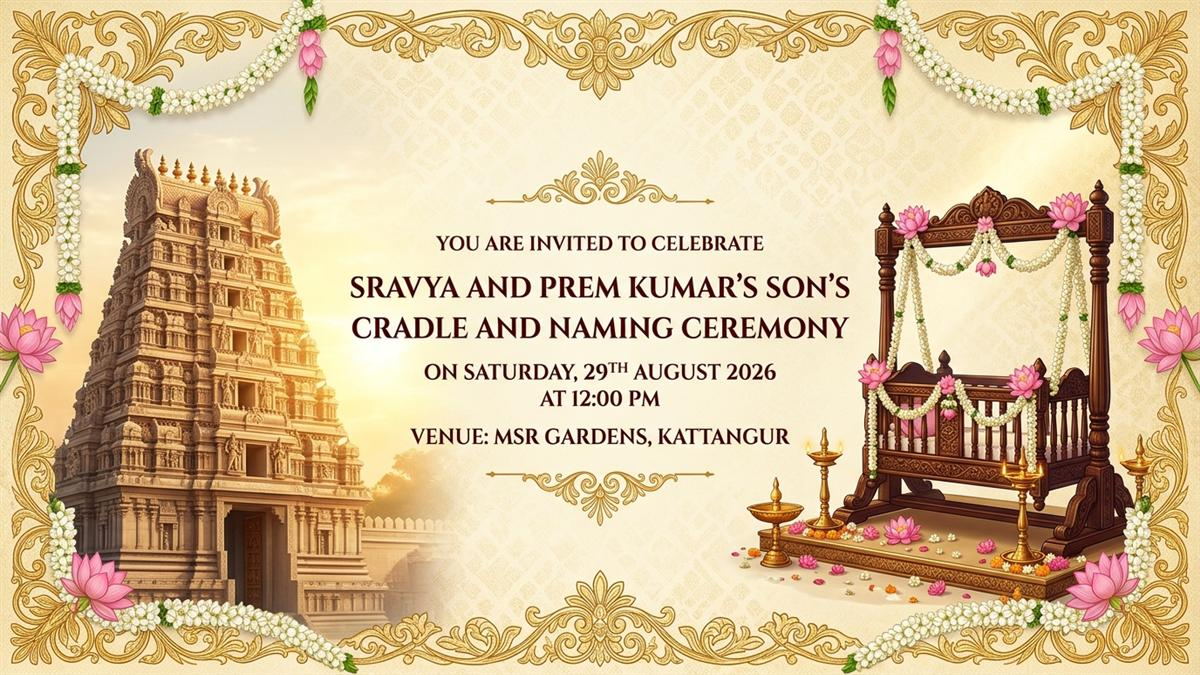
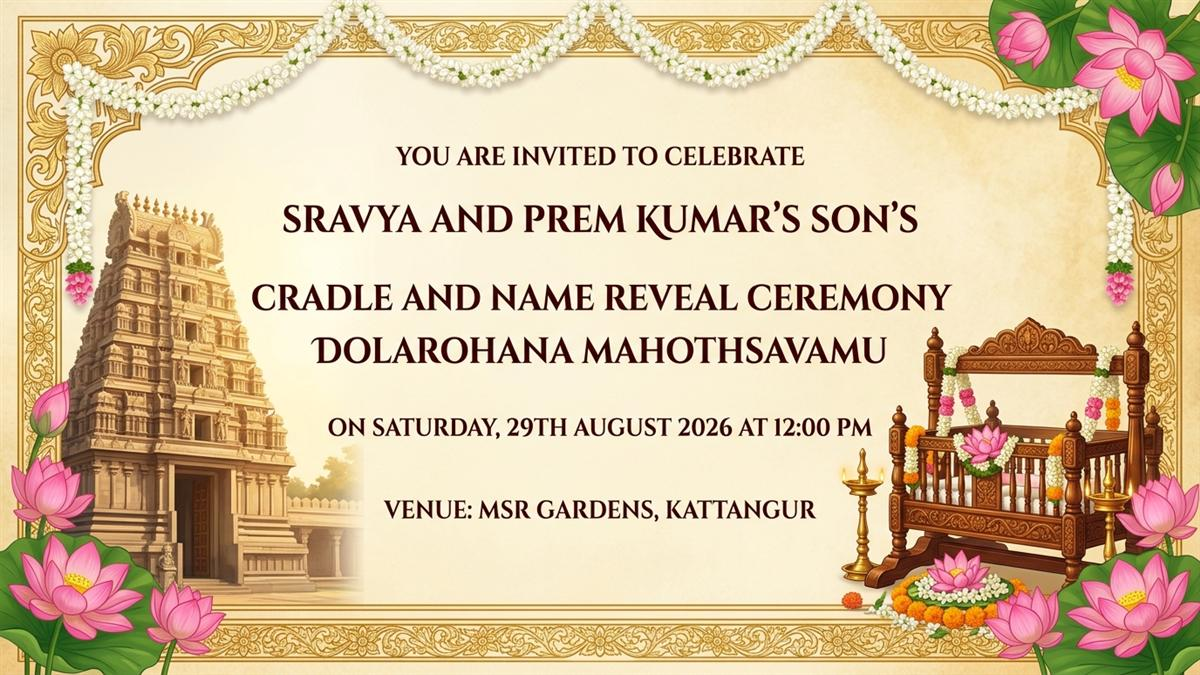
feat: Update event titles and descriptions to reflect 'Name Reveal Ceremony' and enhance MusicToggle with auto-stop functionality

diff --git a/src/app/layout.tsx b/src/app/layout.tsx
@@ -31,16 +31,16 @@ const notoTelugu = Noto_Serif_Telugu({
 });
 
 export const metadata: Metadata = {
-  title: "Sravya & Prem Kumar's Son's Cradle & Naming Ceremony | 29 August 2026",
+  title: "Sravya & Prem Kumar's Son's Cradle & Name Reveal Ceremony | 29 August 2026",
   description:
-    "With joy and blessings, we invite you to celebrate Sravya & Prem Kumar's son's Cradle & Naming Ceremony on Saturday, 29 August 2026 at MSR Gardens, Kattangur.",
+    "With joy and blessings, we invite you to celebrate Sravya & Prem Kumar's son's Cradle & Name Reveal Ceremony (డోలారోహణ మహోత్సవం) on Saturday, 29 August 2026 at MSR Gardens, Kattangur.",
   metadataBase: new URL("https://cradle-and-naming-ceremony.vercel.app"),
   openGraph: {
-    title: "Sravya & Prem Kumar's Son's Cradle & Naming Ceremony | 29 August 2026",
+    title: "Sravya & Prem Kumar's Son's Cradle & Name Reveal Ceremony | 29 August 2026",
     description:
-      "With joy and blessings, we invite you to celebrate Sravya & Prem Kumar's son's Cradle & Naming Ceremony on Saturday, 29 August 2026 at MSR Gardens, Kattangur.",
+      "With joy and blessings, we invite you to celebrate Sravya & Prem Kumar's son's Cradle & Name Reveal Ceremony (డోలారోహణ మహోత్సవం) on Saturday, 29 August 2026 at MSR Gardens, Kattangur.",
     url: "https://cradle-and-naming-ceremony.vercel.app",
-    siteName: "Cradle & Naming Ceremony Invitation",
+    siteName: "Cradle & Name Reveal Ceremony Invitation",
     images: [
       {
         url: "https://cradle-and-naming-ceremony.vercel.app/images/og_image.jpg",
@@ -48,7 +48,7 @@ export const metadata: Metadata = {
         width: 1200,
         height: 675,
         type: "image/jpeg",
-        alt: "Sravya & Prem Kumar's Son's Cradle & Naming Ceremony Invitation - Saturday, 29 August 2026",
+        alt: "Sravya & Prem Kumar's Son's Cradle & Name Reveal Ceremony Invitation - Saturday, 29 August 2026",
       },
     ],
     locale: "en_IN",
@@ -56,18 +56,18 @@ export const metadata: Metadata = {
   },
   twitter: {
     card: "summary_large_image",
-    title: "Sravya & Prem Kumar's Son's Cradle & Naming Ceremony | 29 August 2026",
+    title: "Sravya & Prem Kumar's Son's Cradle & Name Reveal Ceremony | 29 August 2026",
     description:
-      "With joy and blessings, we invite you to celebrate Sravya & Prem Kumar's son's Cradle & Naming Ceremony on Saturday, 29 August 2026 at MSR Gardens, Kattangur.",
+      "With joy and blessings, we invite you to celebrate Sravya & Prem Kumar's son's Cradle & Name Reveal Ceremony (డోలారోహణ మహోత్సవం) on Saturday, 29 August 2026 at MSR Gardens, Kattangur.",
     images: ["https://cradle-and-naming-ceremony.vercel.app/images/og_image.jpg"],
   },
   keywords: [
     "Cradle Ceremony",
-    "Naming Ceremony",
+    "Name Reveal Ceremony",
+    "Dolarohana Mahothsavamu",
     "South Indian Invitation",
-    "Telugu Naming Ceremony",
     "MSR Gardens Kattangur",
-    "ఊయల మరియు నామకరణ మహోత్సవం",
+    "డోలారోహణ మహోత్సవం",
   ],
 };
 

diff --git a/src/components/MusicToggle.tsx b/src/components/MusicToggle.tsx
@@ -7,6 +7,27 @@ export const MusicToggle: React.FC = () => {
   const [isPlaying, setIsPlaying] = useState(false);
   const [showPrompt, setShowPrompt] = useState(false);
   const audioRef = useRef<HTMLAudioElement | null>(null);
+  const stopTimerRef = useRef<NodeJS.Timeout | null>(null);
+
+  const start60sTimer = () => {
+    if (stopTimerRef.current) {
+      clearTimeout(stopTimerRef.current);
+    }
+    // Automatically stop music after 1 minute (60,000 ms)
+    stopTimerRef.current = setTimeout(() => {
+      if (audioRef.current) {
+        audioRef.current.pause();
+        setIsPlaying(false);
+      }
+    }, 60000);
+  };
+
+  const stop60sTimer = () => {
+    if (stopTimerRef.current) {
+      clearTimeout(stopTimerRef.current);
+      stopTimerRef.current = null;
+    }
+  };
 
   useEffect(() => {
     const audio = audioRef.current;
@@ -21,6 +42,7 @@ export const MusicToggle: React.FC = () => {
           .then(() => {
             setIsPlaying(true);
             setShowPrompt(false);
+            start60sTimer();
             removeListeners();
           })
           .catch(() => {
@@ -48,6 +70,7 @@ export const MusicToggle: React.FC = () => {
 
     return () => {
       removeListeners();
+      stop60sTimer();
     };
   }, []);
 
@@ -59,12 +82,14 @@ export const MusicToggle: React.FC = () => {
     if (isPlaying) {
       audio.pause();
       setIsPlaying(false);
+      stop60sTimer();
     } else {
       audio
         .play()
         .then(() => {
           setIsPlaying(true);
           setShowPrompt(false);
+          start60sTimer();
         })
         .catch((err) => {
           console.warn("Audio play error:", err);

diff --git a/src/components/HeroSection.tsx b/src/components/HeroSection.tsx
@@ -17,7 +17,7 @@ export const HeroSection: React.FC = () => {
 
         {/* English Event Title */}
         <h1 className="font-serif text-2xl sm:text-4xl md:text-5xl font-bold tracking-wider text-indigoaccent-900 uppercase leading-tight px-2 drop-shadow-sm">
-          Cradle & Naming Ceremony
+          Cradle & Name Reveal Ceremony
         </h1>
 
         <p className="font-serif text-sm sm:text-lg font-bold text-gold-800 uppercase tracking-widest mt-1">
@@ -26,7 +26,7 @@ export const HeroSection: React.FC = () => {
 
         {/* Telugu Main Event Title */}
         <h2 className="font-telugu text-xl sm:text-3xl text-gold-700 font-semibold my-1.5 px-2">
-          ఊయల మరియు నామకరణ మహోత్సవం
+          డోలారోహణ మహోత్సవం
         </h2>
 
         <OrnamentalDivider variant="lotus" className="my-3" />

diff --git a/src/components/InvitationCardSection.tsx b/src/components/InvitationCardSection.tsx
@@ -56,10 +56,10 @@ export const InvitationCardSection: React.FC = () => {
           {/* Main Event Name Banner */}
           <div className="my-6 py-4 px-3 rounded-xl bg-gold-100/60 border border-gold-300/70 shadow-sm">
             <h2 className="font-serif text-xl sm:text-3xl font-bold text-indigoaccent-900 uppercase tracking-widest leading-snug">
-              Cradle & Naming Ceremony
+              Cradle &amp; Name Reveal Ceremony
             </h2>
             <p className="font-telugu text-lg sm:text-2xl font-bold text-gold-700 mt-1">
-              ఊయల మరియు నామకరణ మహోత్సవం
+              డోలారోహణ మహోత్సవం
             </p>
           </div>
 
